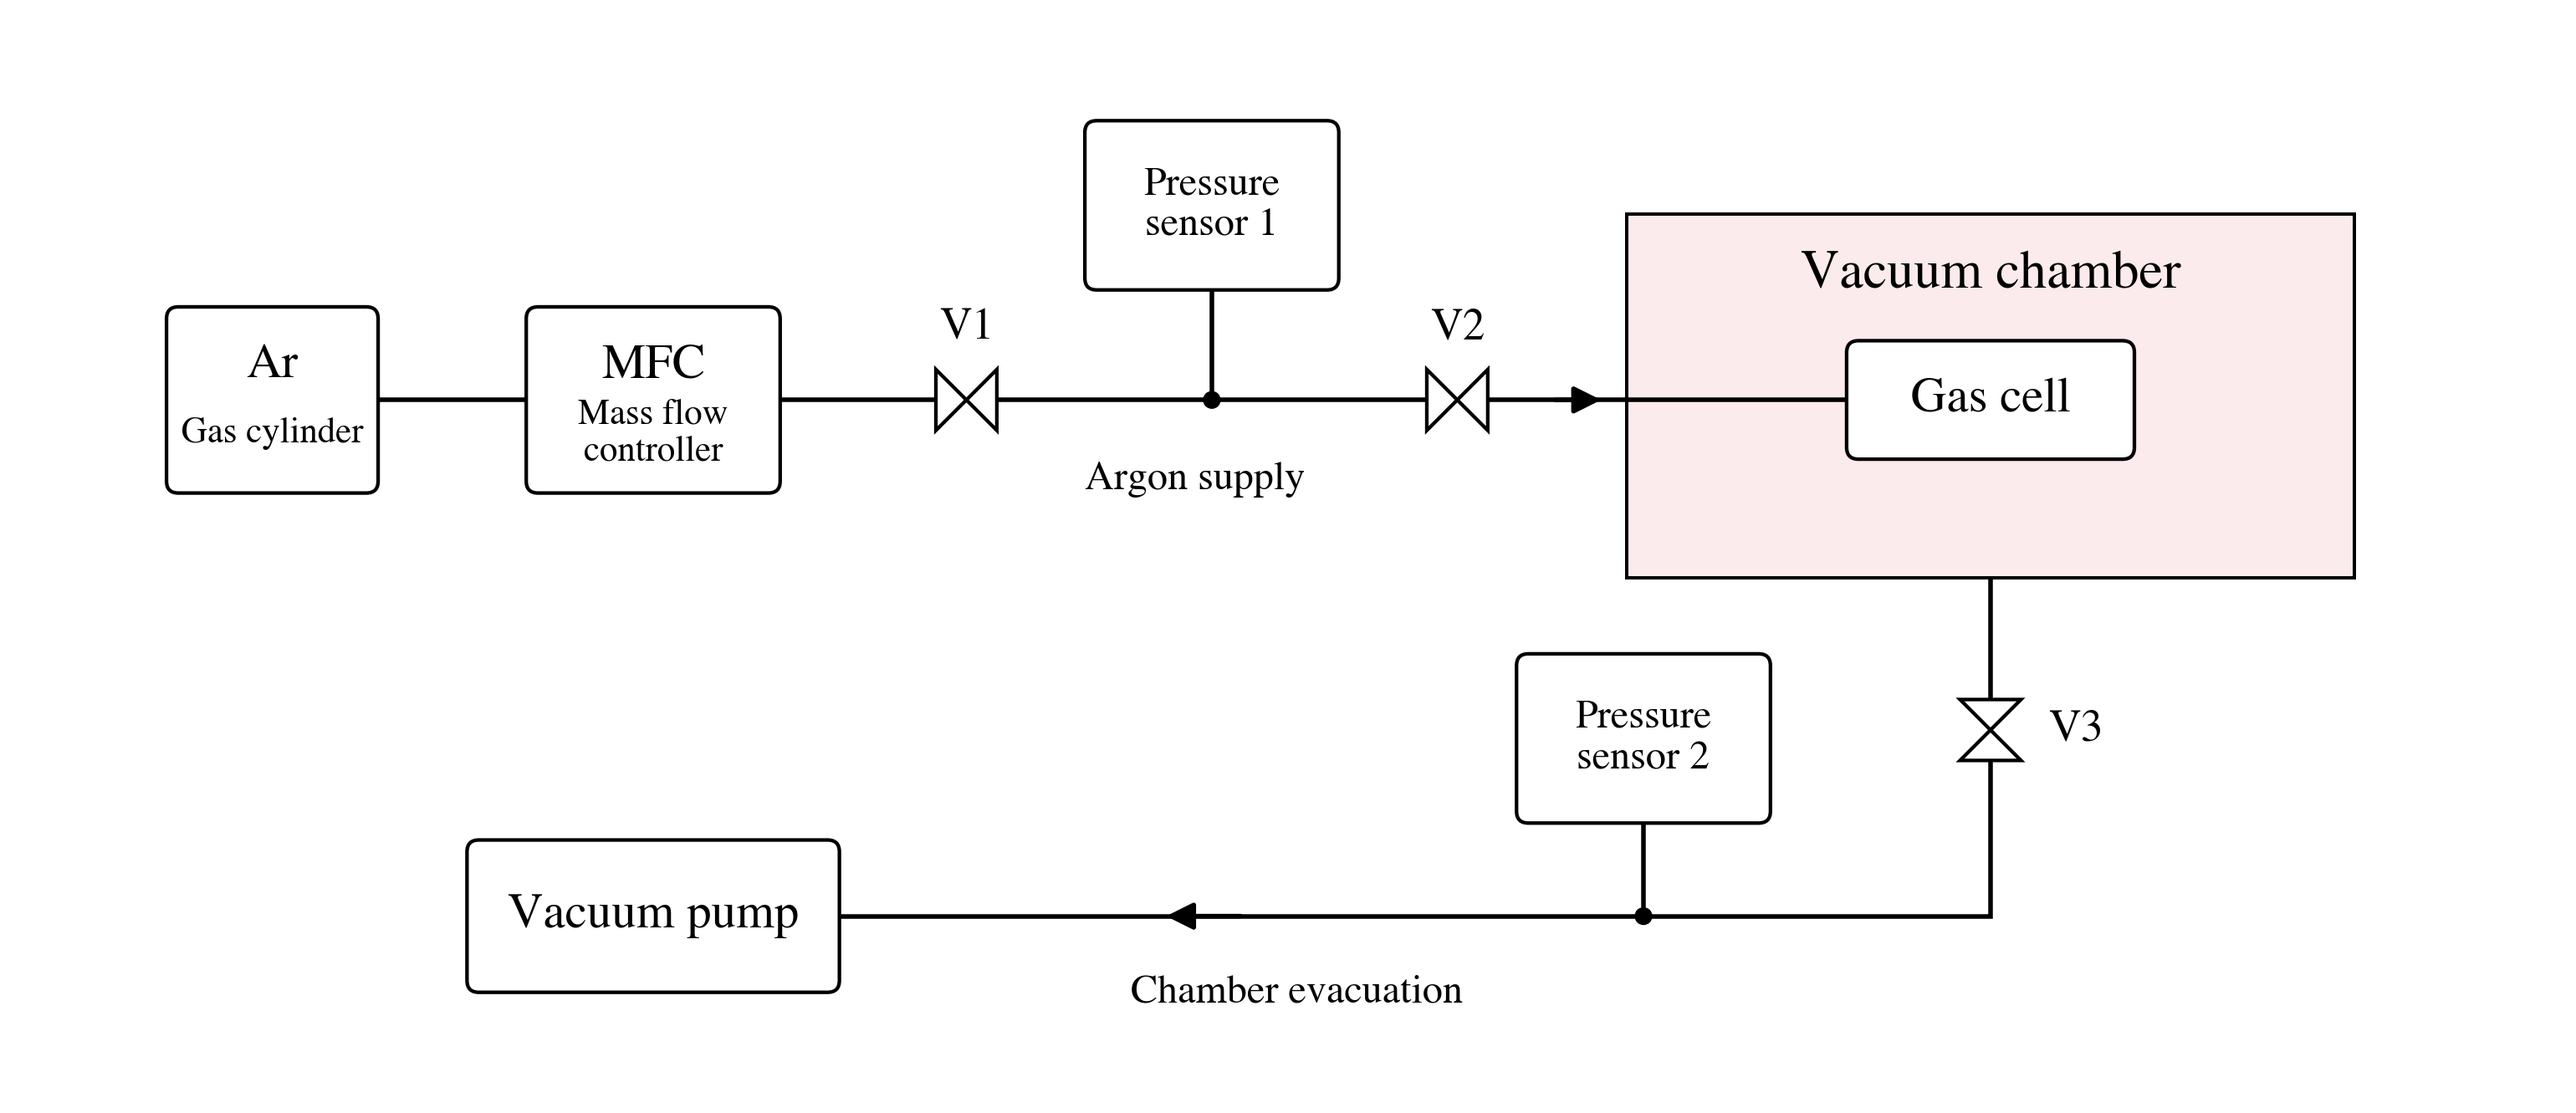
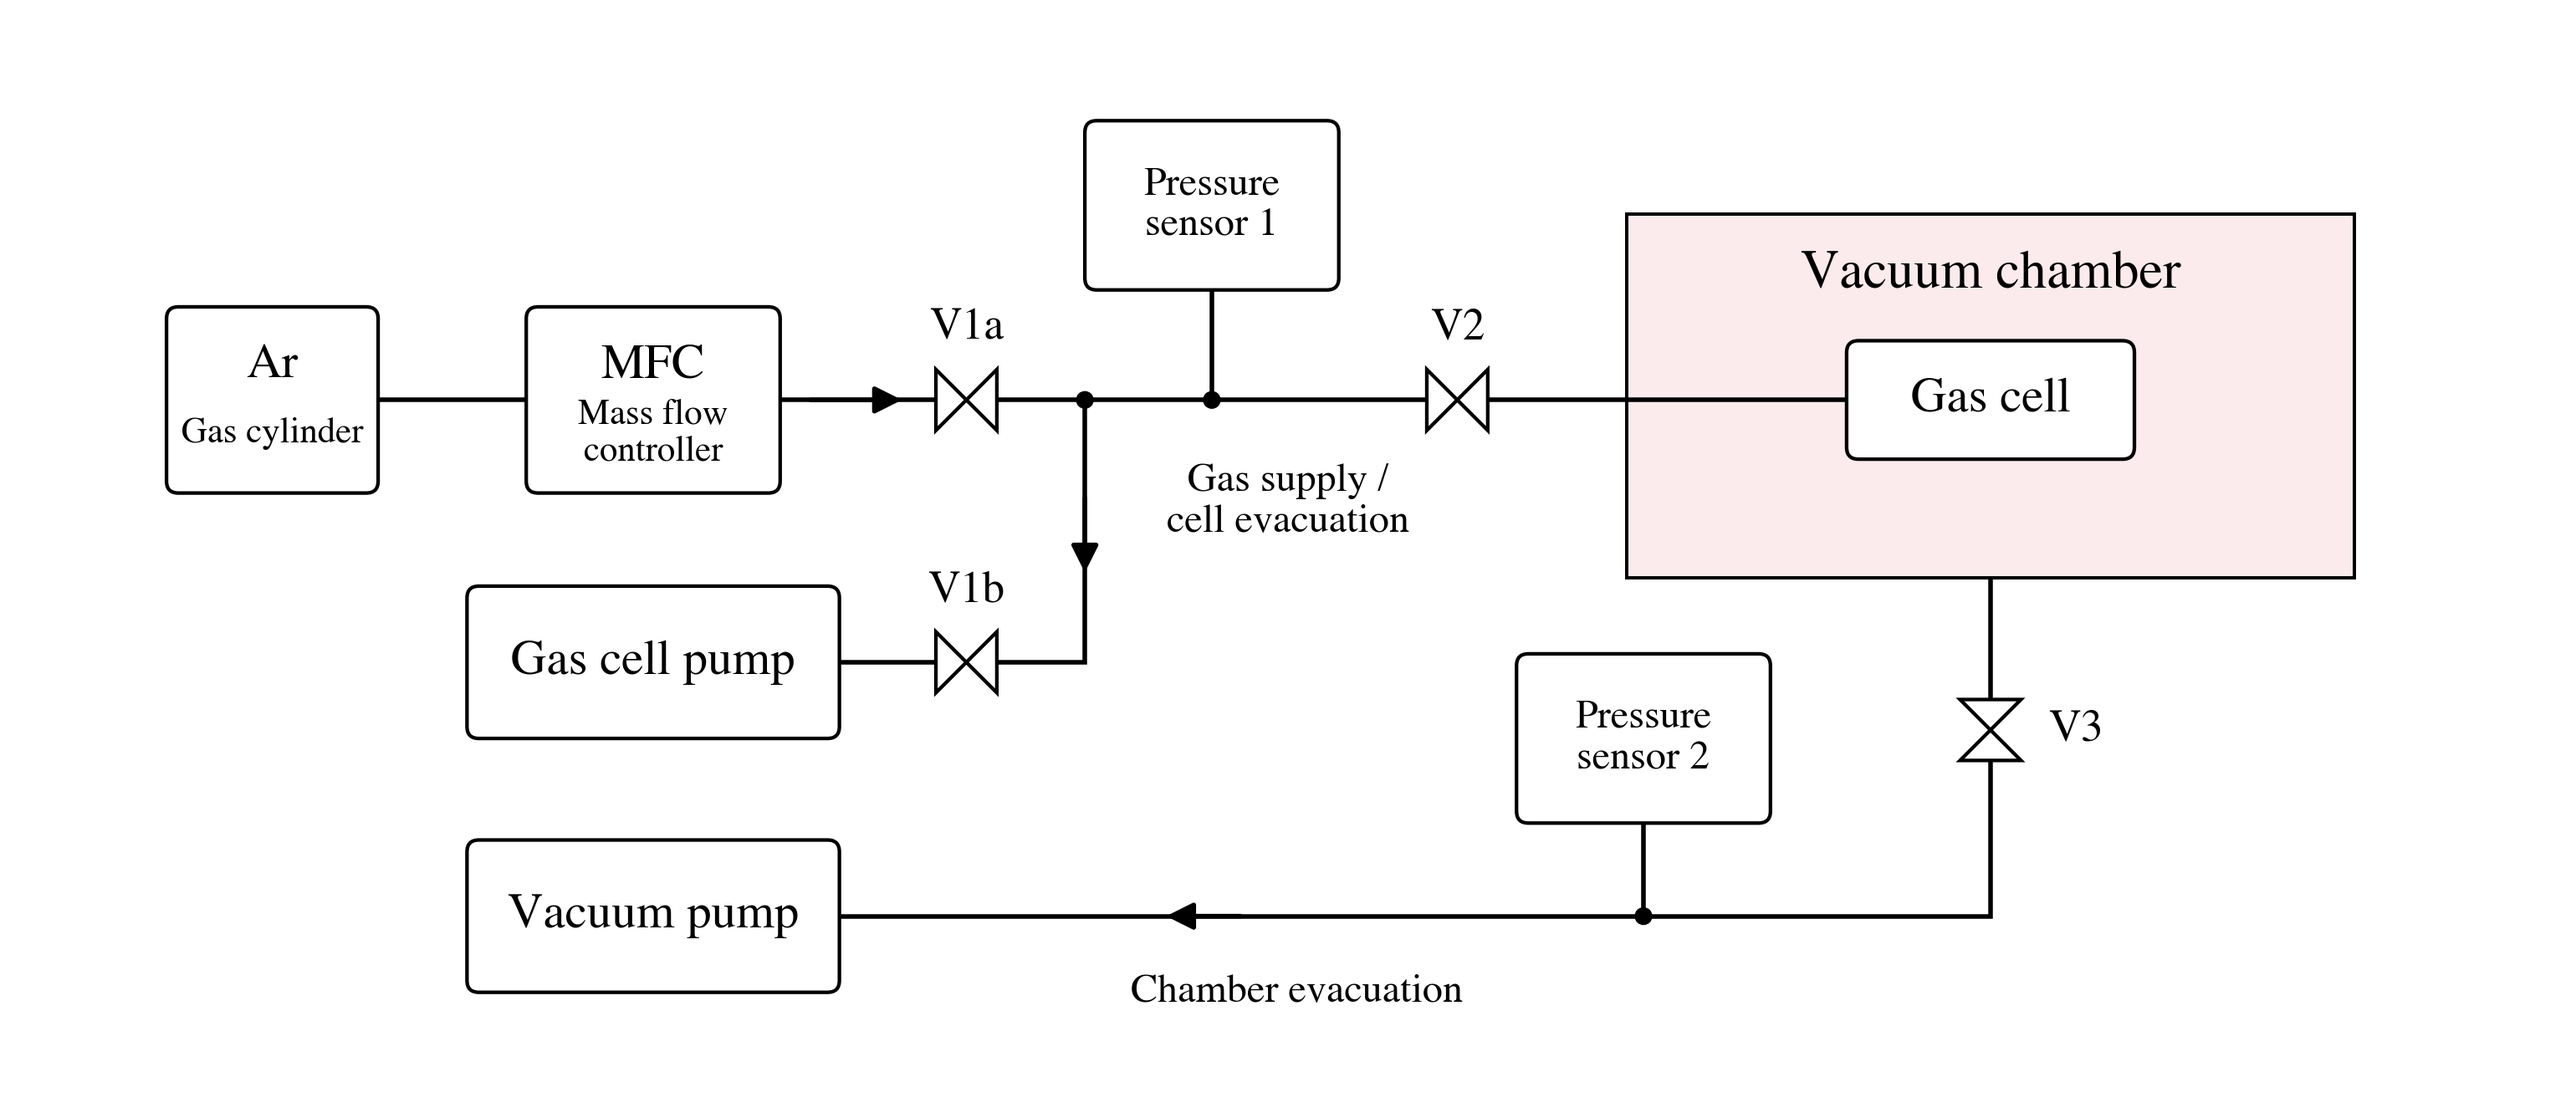
Gas flow update

diff --git a/gas_system/system_schematic.py b/gas_system/system_schematic.py
@@ -70,15 +70,17 @@ def junction(ax, x, y, color):
                         edgecolor=color, zorder=5))
 
 
-def flow_arrow(ax, start, end, color):
+def flow_arrow(ax, start, end, color, bidirectional=False):
     ax.annotate("", xy=end, xytext=start,
-                arrowprops={"arrowstyle": "-|>", "color": color,
+                arrowprops={"arrowstyle": "<|-|>" if bidirectional else "-|>",
+                            "color": color,
                             "lw": PIPE_LW, "mutation_scale": 22}, zorder=3)
 
 
 def build_schematic():
-    """Preserve Ar → MFC → V1 → PS1 tap → V2 → cell topology.
+    """Separate V1a supply and V1b gas-cell evacuation branches.
 
+    The branches join before the PS1 tap and V2 leading to the gas cell.
     Chamber vacuum exits via V3; PS2 taps the pump side of V3.
     The gas cell and chamber vacuum are separate connections.
     """
@@ -99,15 +101,22 @@ def build_schematic():
 
     pipe(ax, [(1.625, y), (2.5, y)], SUPPLY)
     pipe(ax, [(4.0, y), (4.92, y)], SUPPLY)
-    valve(ax, 5.1, y, label="V1", color=SUPPLY)
+    valve(ax, 5.1, y, label="V1a", color=SUPPLY)
+    # Dedicated cell evacuation bypasses the MFC and gas cylinder.
+    pipe(ax, [(5.8, y), (5.8, 3.35), (5.28, 3.35)])
+    valve(ax, 5.1, 3.35, label="V1b")
+    pipe(ax, [(4.92, 3.35), (4.35, 3.35)])
+    equipment(ax, 3.25, 3.35, 2.2, 0.9, "Gas cell pump")
+    flow_arrow(ax, (5.8, 4.35), (5.8, 3.85), INK)
+    flow_arrow(ax, (4.15, y), (4.75, y), INK)
     pipe(ax, [(5.28, y), (7.82, y)], SUPPLY)
+    junction(ax, 5.8, y, INK)
     valve(ax, 8.0, y, label="V2", color=SUPPLY)
     pipe(ax, [(8.18, y), (10.3, y)], SUPPLY)
     pipe(ax, [(6.55, y), (6.55, 5.55)], SUPPLY)
     instrument(ax, 6.55, 6.05, "Pressure\nsensor 1", color=SUPPLY)
     junction(ax, 6.55, y, SUPPLY)
-    flow_arrow(ax, (8.55, y), (8.88, y), SUPPLY)
-    label(ax, 6.45, 4.43, "Argon supply", size=9, color=SUPPLY)
+    label(ax, 7.0, 4.30, "Gas supply /\ncell evacuation", size=9, color=SUPPLY)
 
     vx = 11.15
     pipe(ax, [(vx, 3.85), (vx, 3.13)], VACUUM)
